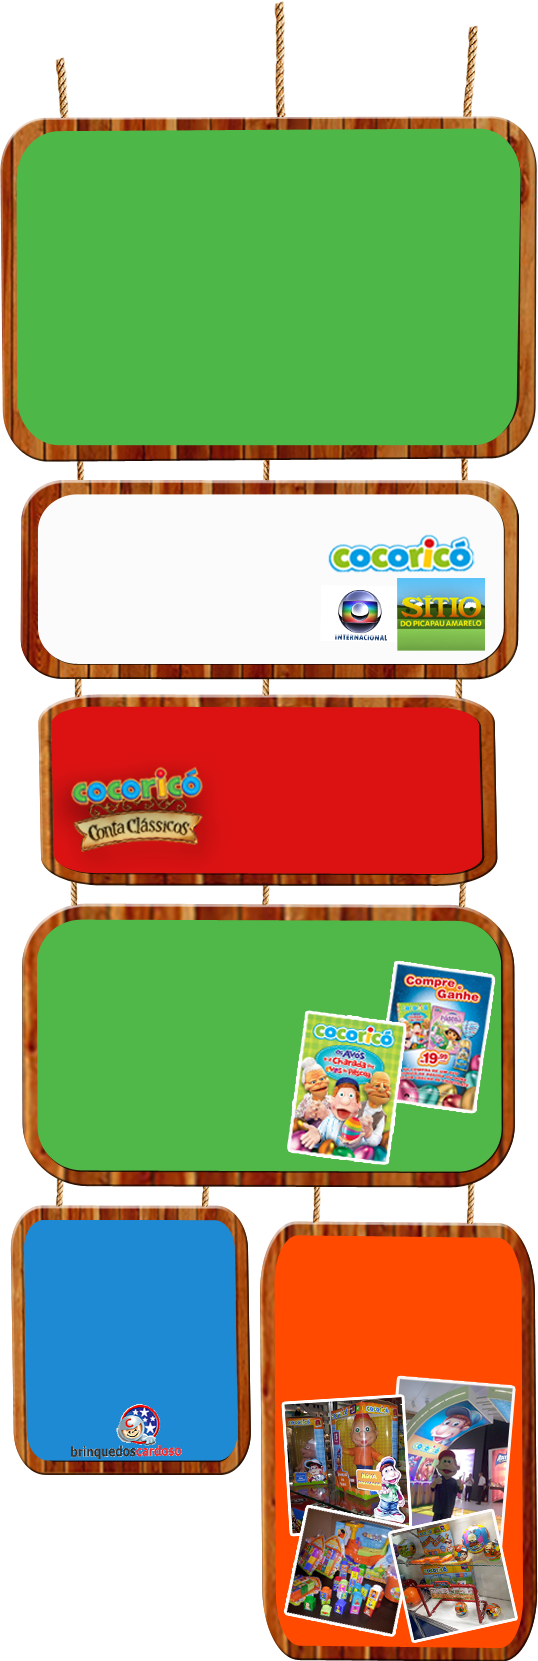
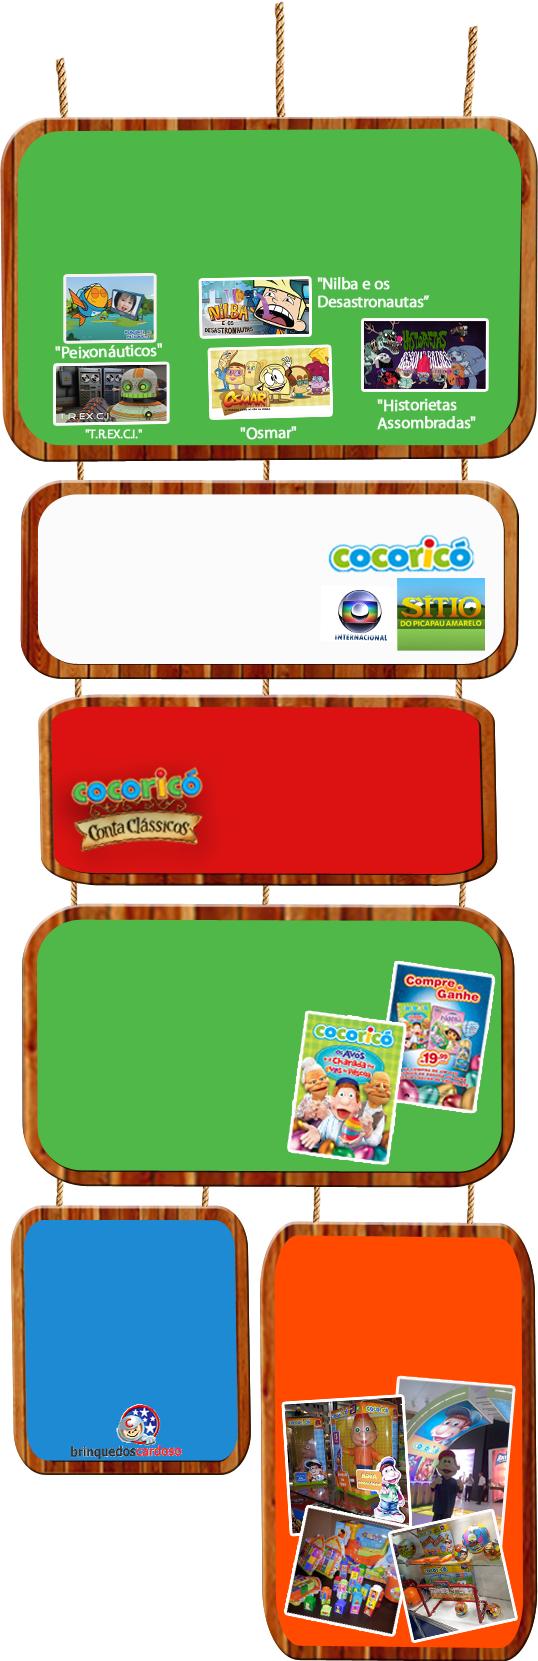
ie

diff --git a/web/newsletter/cocorico/043013/index.html b/web/newsletter/cocorico/043013/index.html
@@ -3,9 +3,9 @@
     <meta http-equiv="Content-type" content="text/html; charset=utf-8" />
     <title>cmais+ O portal de conteúdo da Cultura - C+ - Opinião</title>
     <style type="text/css">
-      body { padding: 0;  background:#fff url(img/bg.jpg) repeat-x; font-family: "Myriad Pro", Helvetica, Arial, sans-serif;  }
+      body { padding: 0;  background:#fff url(http://cmais.com.br/newsletter/cocorico/043013/img/bg.jpg) repeat-x; font-family: "Myriad Pro", Helvetica, Arial, sans-serif;  }
       .all { margin: 0 auto;  }
-      table {  background:url(img/bg-conteudo.png) no-repeat center 140px; width:600px; height:2362px; }
+      table {  background:url(http://cmais.com.br/newsletter/cocorico/043013/img/bg-conteudo.png) no-repeat center 140px; width:600px; height:2362px; }
       table tr td img { margin:0;  padding: 0; border: none; }
       table tr, table td, table area { border: none; margin: 0;  padding: 0; }
       table tr { display: block; }
@@ -14,27 +14,21 @@
       .box { margin:40px 0 0 60px; width: 475px; float:left;}
       
       .box h2 { text-transform:uppercase; color:#fff; text-align:center; font-size: 18px; margin-bottom:0;}
-      .box span { background:url(img/divisao.png) repeat-x; height:7px; margin:0 auto; display:block; width:400px; }
+      .box span { background:url(http://cmais.com.br/newsletter/cocorico/043013/img/divisao.png) repeat-x; height:7px; margin:0 auto; display:block; width:400px; }
       .box ul a,
       .box p { color:#fff;}
       .box p { margin:10px 0; font-size:15px;}
       .box img { float:left; margin-right:10px; }
       .box img { width:100px; }
-      .box li { float:left; list-style: none; width:auto; height: 83px; margin:0 12px 5px 0; }
-      .box ul {float:left; margin-top:-5px;}
-      .box li { *float:none; }
-      .box li img { margin-right:0; margin-bottom:2px; border:3px solid #f7f1f1; border-radius:3px; -moz-border-radius: 3px; -webkit-border-radius: 3px;  }
-      .box li a { display:block; text-align:center; font-size:14px; text-decoration:none; }
-      .box li a:hover { text-decoration:underline; }
       .globo { margin-top:40px; margin-left:85px; }
       .globo h2,
       .globo p,
       .globo a { color:#000; }
       .globo h2 { width:438px; }
-      .globo span {background-image:url(img/divisao-preta.png);  }
+      .globo span {background-image:url(http://cmais.com.br/newsletter/cocorico/043013/img/divisao-preta.png);  }
       .globo p { width:280px; margin:5px 0 0 0; float:left; }
       .logos { float:left; }
-      .logos a { background: url(img/logos.png) no-repeat; display: block;}
+      .logos a { background: url(http://cmais.com.br/newsletter/cocorico/043013/img/logos.png) no-repeat; display: block;}
       .logos .logococo { width:147px; height:39px; background-position: 0 0; }
       .logos .logoglobo { width:54px; height:51px; background-position: 0 0; }
       .logos .logositio { width:88px; height:73px; background-position: 0 0; }
@@ -52,13 +46,14 @@
       .abrin td,
       .abrin span { width:230px; }
       .telinha { width: 600px; height:591px; margin-top:400px;  }
-      .rodape { background:url(img/bg-rodape.jpg) repeat-x; width: 600px; height:125px; float:left; }
+      .rodape { background:url(http://cmais.com.br/newsletter/cocorico/043013/img/bg-rodape.jpg) repeat-x; width: 600px; height:125px; float:left; }
       .rodape a,
       .rodape p { color:#fff; font-size:14px; }
       .rodape p { margin:20px 0 0 20px; width:330px; float:left; }
       .rodape .bold { font-size:10px; font-weight:bold; text-transform:uppercase; }
       .rodape .tv { width:87px; height:76px; display:block; float:right; margin:20px 20px 0 0; }
       td { float:left; }
+      .box ul p { margin:0; }
       
       .box ul li { *float:left; *width:200px !important; *overflow:hidden; }
       .box span { *margin-left:100px; }
@@ -72,22 +67,14 @@
       <table border="0" cellspacing="0" cellpadding="0">
         <tbody>
           <tr>
-            <td><img src="img/topo.png" border="0"/></td>
+            <td><img src="http://cmais.com.br/newsletter/cocorico/043013/img/topo.png" border="0"/></td>
           </tr>
           <tr class="box">
             <td>
               <h2>grade de Programação tv cultura 2013</h2>
               <span></span>
-              <p><img src="img/logotv.png" alt="TV Cultura" />Saiu a grade de programação 2013 da TV Cultura e a criançada ganhou atenção especial. São quatro atrações especialmente para o público infantil, além de uma série para adolescentes. A nova grade conta agora com:</p>
-              <ul>
-                <li style="margin-right:20px;"><p><img src="img/thumb-peixonauta.jpg" alt="Peixonáuticos"  /><br/>"Peixonáuticos"</p></li>
-                <li style="width: 230px;"><p style="text-align: left;"><img src="img/thumb-nilba.jpg" alt="Nilba e os Desastronautas" style="margin-right: 10px;"/>"Nilba e os <br/>Desastronautas"</p></li>
-                <li><p><img src="img/thumb-trexi.jpg" alt="T.R.EX.C.I."   /><br/>"T.R.EX.C.I."</p></li>
-                <li style="margin-top: -10px;"><p><img src="img/thumb-osmar.jpg" alt="Osmar"  /><br/>"Osmar"</p></li>
-                <li style="margin: -40px 0 0 0;"><p><img style="margin-left:10px" src="img/thumb-historietas.jpg" alt="Historietas Assombradas"  /><br/>"Historietas Assombradas"</p></li>
-                
-                
-              </ul>
+              <p><img src="http://cmais.com.br/newsletter/cocorico/043013/img/logotv.png" alt="TV Cultura" />Saiu a grade de programação 2013 da TV Cultura e a criançada ganhou atenção especial. São quatro atrações especialmente para o público infantil, além de uma série para adolescentes. A nova grade conta agora com:</p>
+              
             </td>
           </tr>
           <tr class="box globo">
@@ -130,12 +117,12 @@
             </td>
           </tr>
           <tr class="telinha">
-            <td  style="line-height: 0pt"><img src="img/telinha.png" alt="Cocoricó sempre na telinha!" /></td>
+            <td  style="line-height: 0pt"><img src="http://cmais.com.br/newsletter/cocorico/043013/img/telinha.png" alt="Cocoricó sempre na telinha!" /></td>
           </tr>
           <tr class="rodape">
             <td>
               <p>Para mais informações sobre licenciamento, fale com a nossa agente pelo e-mail <a href="mailto:contato@faresak.com.br">contato@faresak.com.br</a> ou pelos telefones (11) 2691-8561 e (11) 2893-5227.</p>
-              <a class="tv" href="http://tvcultura.cmais.com.br" title="TV Cultura"><img src="img/logotv2.png" alt="TV Cultura" /></a>
+              <a class="tv" href="http://tvcultura.cmais.com.br" title="TV Cultura"><img src="http://cmais.com.br/newsletter/cocorico/043013/img/logotv2.png" alt="TV Cultura" /></a>
               <p class="bold">2013 tv cultura - fpa</p>
              
             </td>
